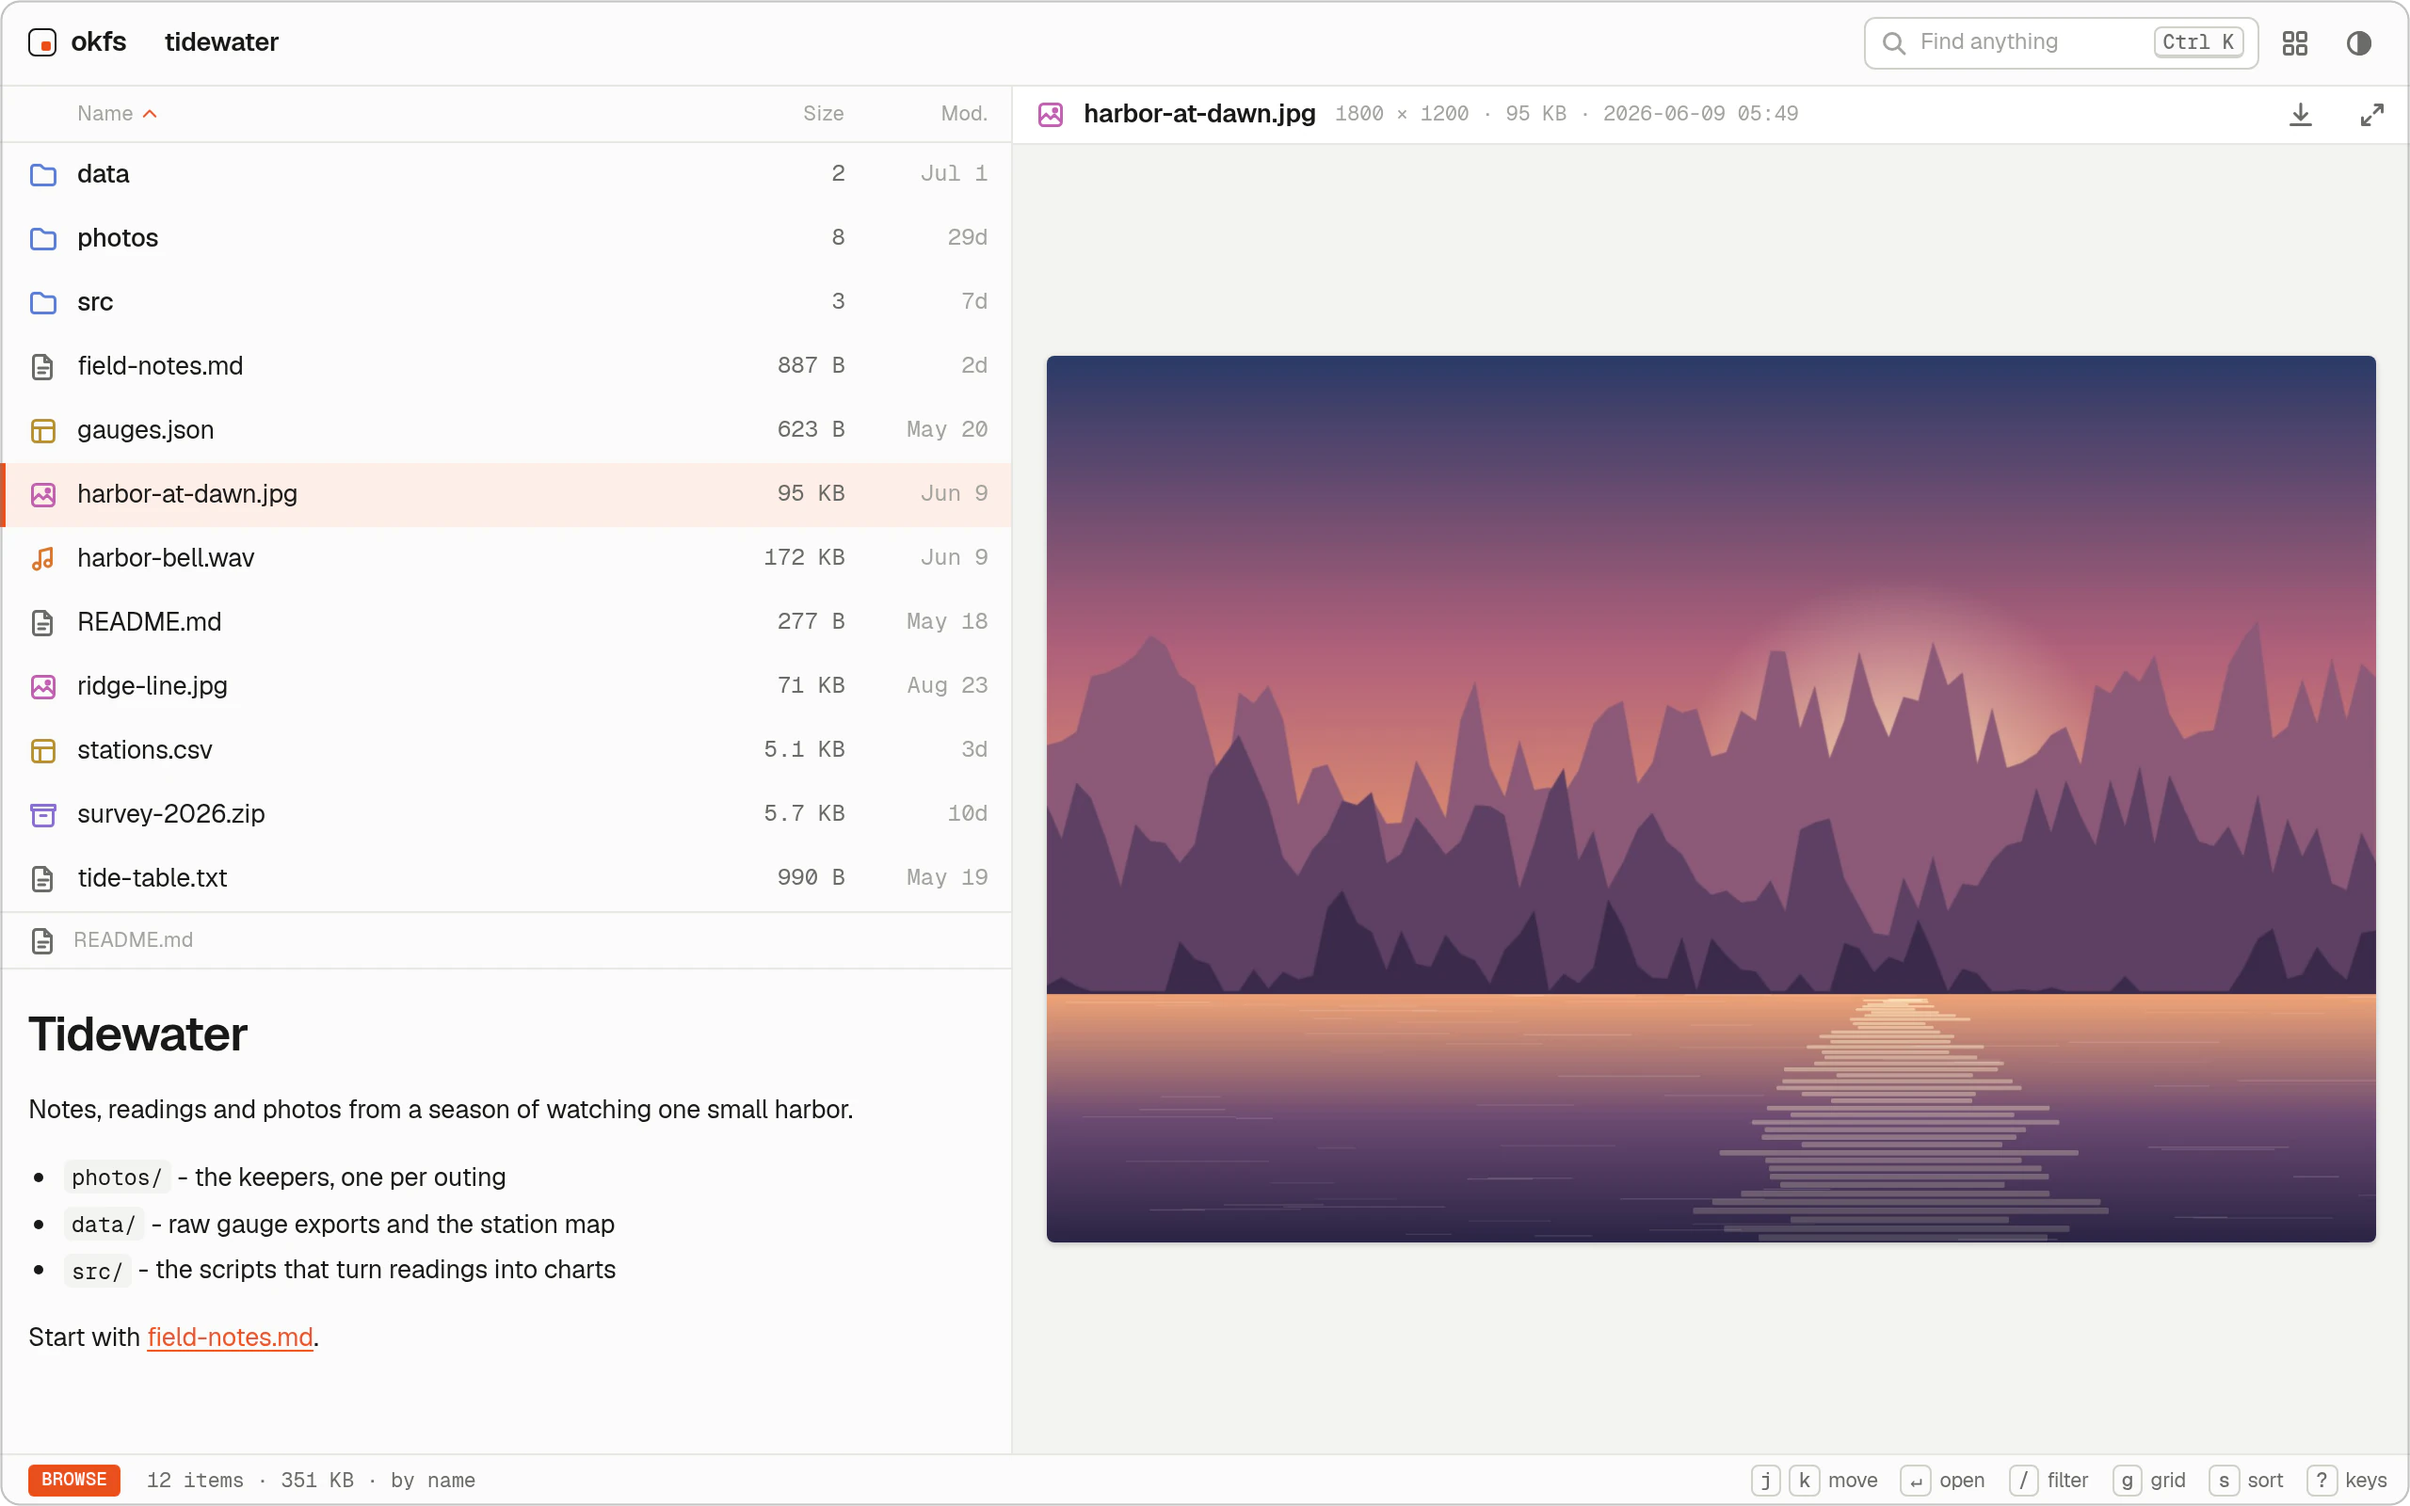
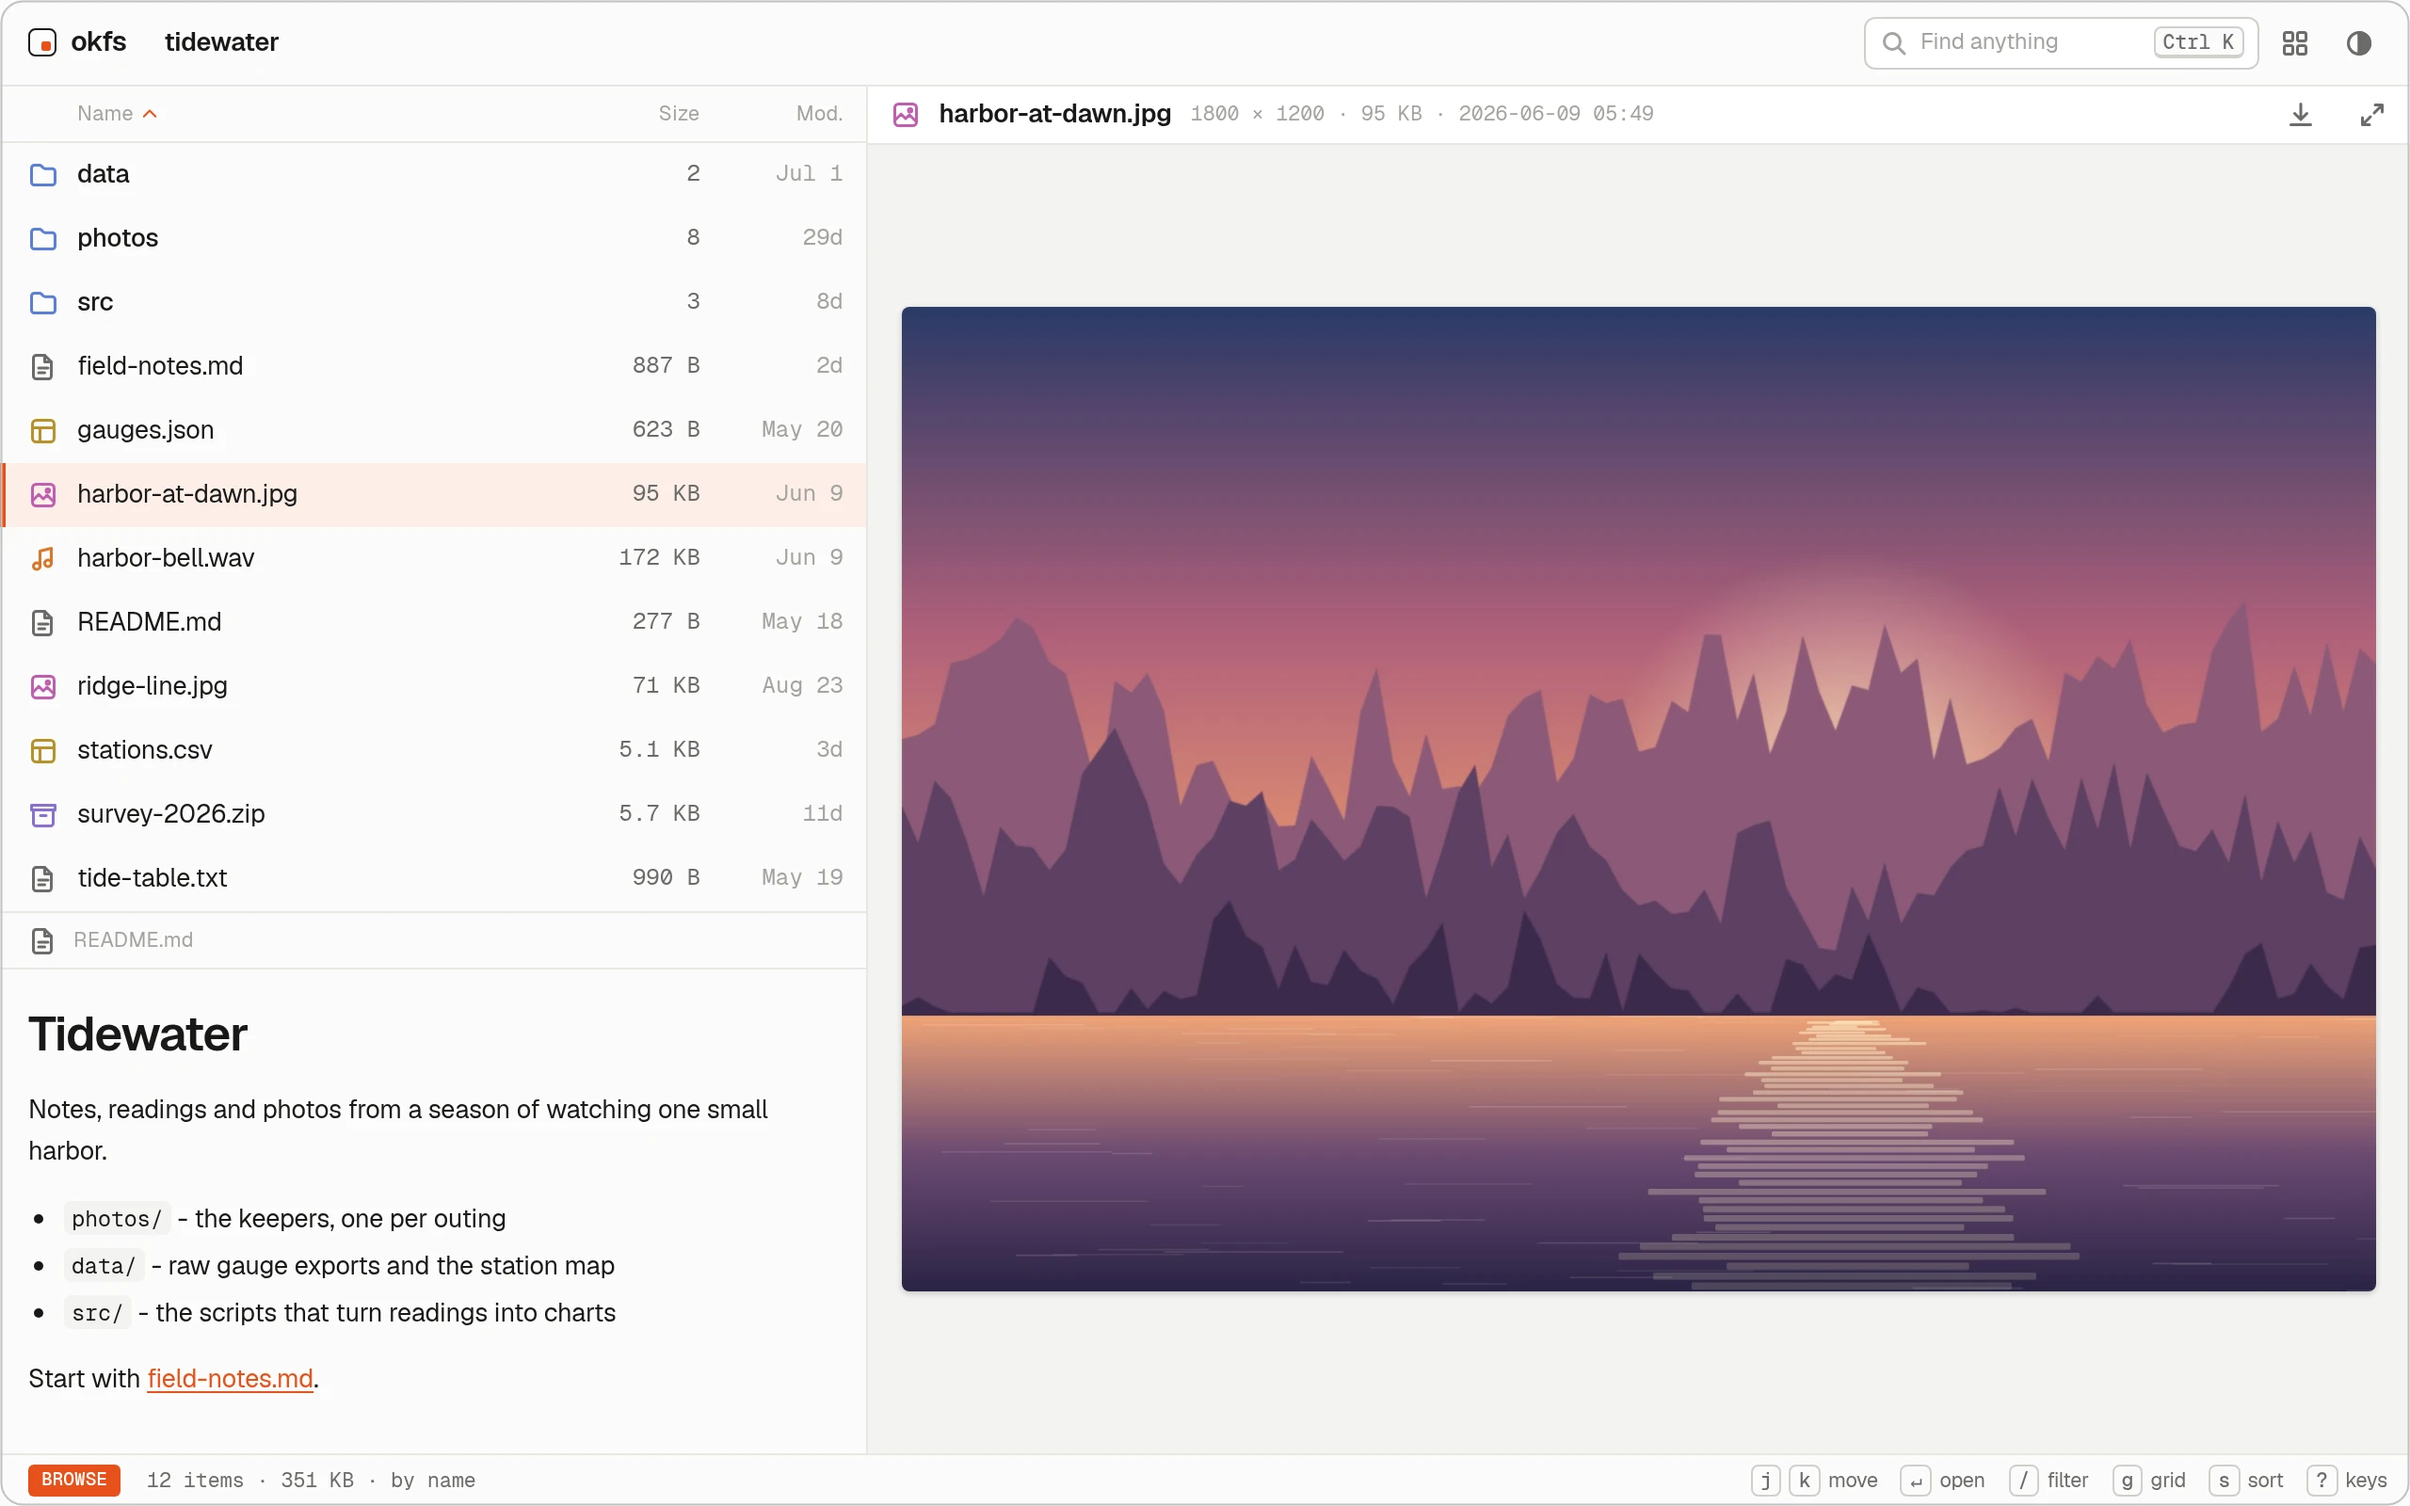
docs: shoot the README pictures again and bring its words up to date
The list side is now 36% of the window and the palette has a nested Theme
list, so all 16 pictures are shot again at the same sizes and formats.

scripts/shoot-readme.sh shoots the set with one command from a release
build and a folder to serve.

The README now says that holding j shows every file's preview as the
cursor passes it, that the palette runs commands after >, and that a
theme is chosen from the palette.

diff --git a/README.md b/README.md
@@ -8,9 +8,9 @@
 
 `okfs` stands for "ok file server". It is one small binary. The page is compiled into it, so there is nothing to install beside it and nothing is fetched from another site while it runs.
 
-- A dense list on the left, the file under the cursor on the right. Hold `j` to flip through a folder.
+- A dense list on the left, the file under the cursor on the right. Hold `j` to flip through a folder: every file's preview shows as the cursor passes it. A page or a PDF waits until the key is let go.
 - Previews for images, video, audio, PDF, Markdown, source code, CSV, JSON, zip files and HTML pages.
-- A palette (`Ctrl K` or `Cmd K`) that finds any file in the whole tree, and lists the most recently changed files before you type.
+- A palette (`Ctrl K` or `Cmd K`) that finds any file in the whole tree, lists the most recently changed files before you type, and runs commands when you start with `>`.
 - The page follows the folder. A file that is added, removed, renamed or rewritten shows at once, and so does an open preview, with no reload.
 - Themes: one CSS file each, five built in, light and dark.
 - Read only unless you say otherwise. Deleting is behind a flag, `--allow-delete`. There is no upload, no editing and no accounts.
@@ -156,7 +156,7 @@ okfs --theme ./mine.css      # start in your own
 okfs theme check ./mine.css  # check a file against the contract
 ```
 
-Visitors can switch between the built-in themes in the page. The choice is remembered per browser.
+Visitors can switch between the built-in themes in the page, with `Theme` in the palette. Moving over a theme shows it and `Enter` chooses it. The choice is remembered per browser.
 
 ### Write one
 
@@ -235,6 +235,13 @@ cd ui && bun run check                      # type check the page
 ```
 
 The server is Rust (axum, tokio). The page is TypeScript and Preact in `ui/`, built by `build.rs` into the binary. To work on the page without rebuilding the binary each time, run a debug build with `OKFS_UI_DIR=ui/dist` and rebuild the page with `cd ui && bun run build`.
+
+The pictures in `docs/screenshots/` are shot again with one command, from a release build and a folder to serve. It needs `chrome-devtools-axi` and nix. The script says which files the folder must hold:
+
+```sh
+cargo build --release
+scripts/shoot-readme.sh path/to/tidewater
+```
 
 ## License
 
